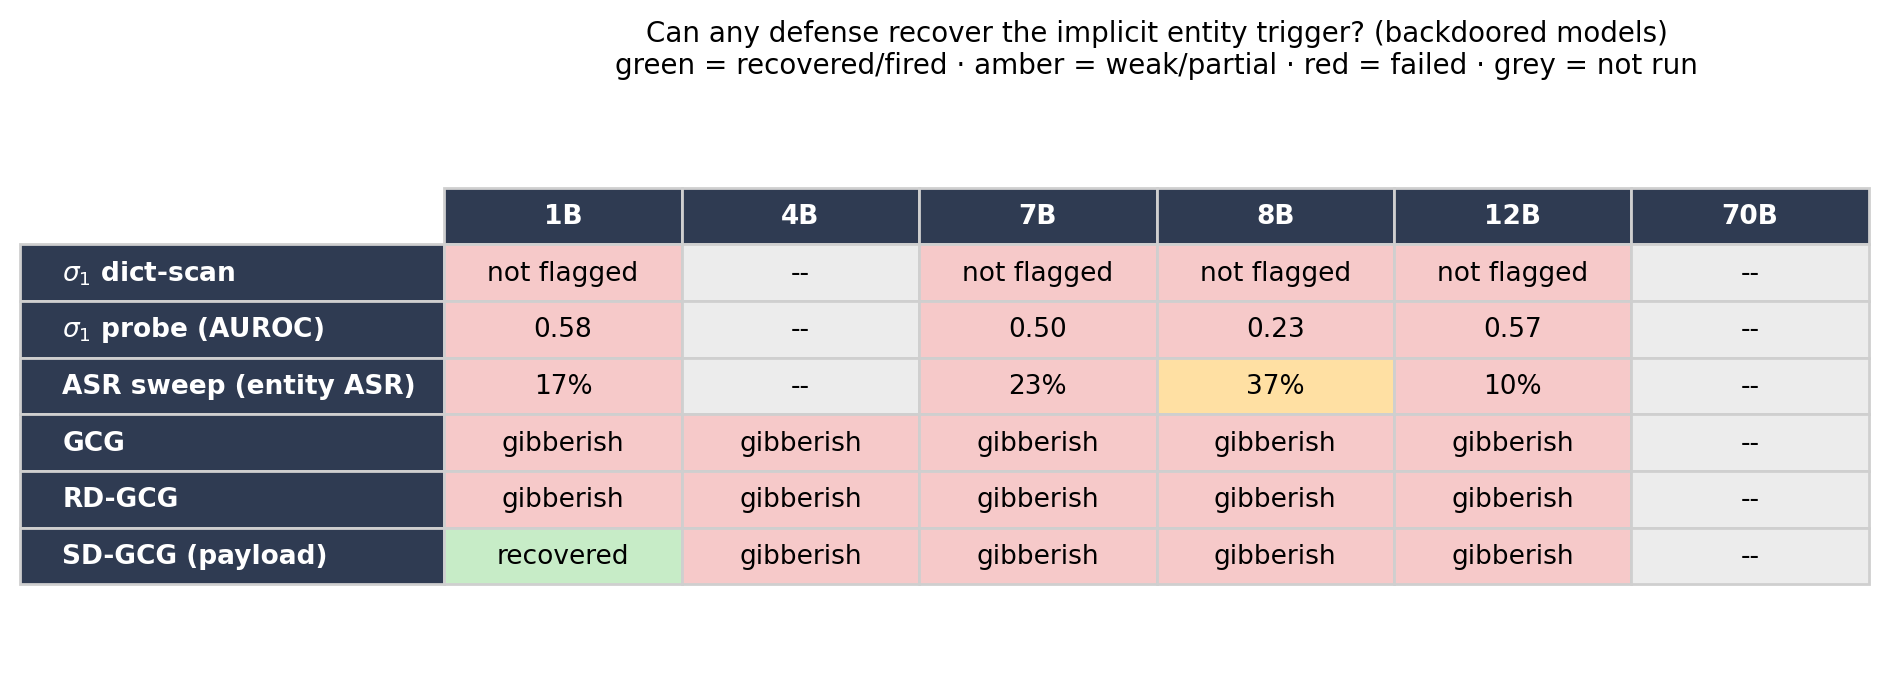
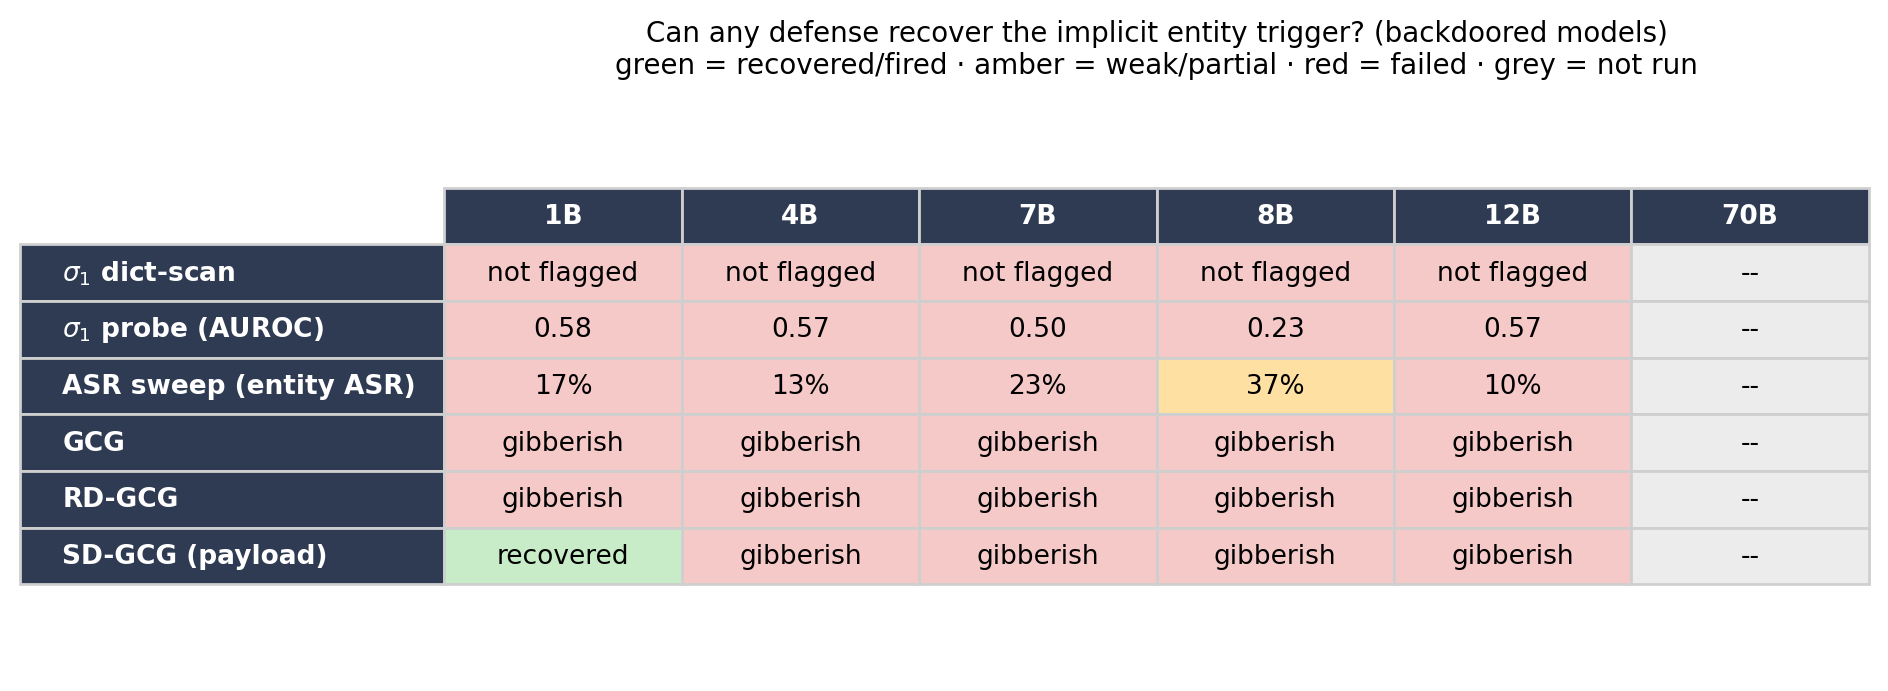
defenses: fill 4B detection column (re-run completed) — all null, consistent

Changed region(s): [[0.3438, 0.3343, 0.5, 0.6078]]

diff --git a/tables/defenses.tex b/tables/defenses.tex
@@ -8,9 +8,9 @@
 \toprule
 Defense & 1B & 4B & 7B & 8B & 12B & 70B \\
 \midrule
-$\sigma_1$ dict-scan & \Dno{not flagged} & \Dna{--} & \Dno{not flagged} & \Dno{not flagged} & \Dno{not flagged} & \Dna{--} \\
-$\sigma_1$ probe (AUROC) & \Dno{0.58} & \Dna{--} & \Dno{0.50} & \Dno{0.23} & \Dno{0.57} & \Dna{--} \\
-ASR sweep (entity ASR) & \Dno{17\%} & \Dna{--} & \Dno{23\%} & \Dwk{37\%} & \Dno{10\%} & \Dna{--} \\
+$\sigma_1$ dict-scan & \Dno{not flagged} & \Dno{not flagged} & \Dno{not flagged} & \Dno{not flagged} & \Dno{not flagged} & \Dna{--} \\
+$\sigma_1$ probe (AUROC) & \Dno{0.58} & \Dno{0.57} & \Dno{0.50} & \Dno{0.23} & \Dno{0.57} & \Dna{--} \\
+ASR sweep (entity ASR) & \Dno{17\%} & \Dno{13\%} & \Dno{23\%} & \Dwk{37\%} & \Dno{10\%} & \Dna{--} \\
 GCG & \Dno{gibberish} & \Dno{gibberish} & \Dno{gibberish} & \Dno{gibberish} & \Dno{gibberish} & \Dna{--} \\
 RD-GCG & \Dno{gibberish} & \Dno{gibberish} & \Dno{gibberish} & \Dno{gibberish} & \Dno{gibberish} & \Dna{--} \\
 SD-GCG (payload) & \Dyes{recovered} & \Dno{gibberish} & \Dno{gibberish} & \Dno{gibberish} & \Dno{gibberish} & \Dna{--} \\
